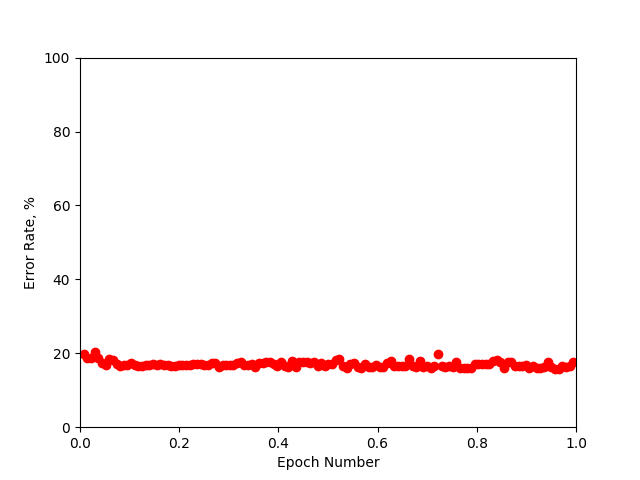
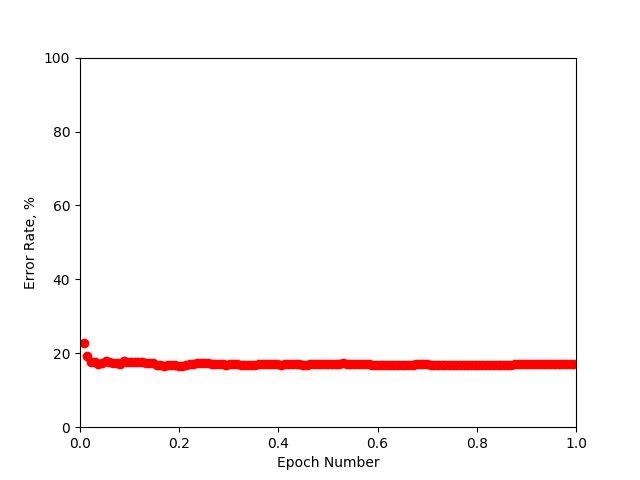
Fixed plots to show axis labels.
Fixed the plots to show the axis labels.

Changed region(s): [[0.125, 0.6875, 0.9062, 0.7812]]

diff --git a/Binary Feature Algorithms/avgSmartPerceptron.py b/Binary Feature Algorithms/avgSmartPerceptron.py
@@ -7,7 +7,7 @@ from Dev_Evaluator import DevEvaluator
 ## Averaged Smart Perceptron algorithm for binary classification
 ## of individuals earning less than or more than 50K/year.
 
-trainDataArray, devDataArray, featureArray = BinarizeData(sort=0, shuffle=0)
+trainDataArray, devDataArray, featureArray = BinarizeData(sort=0, shuffle=1)
 
 weightVector = np.zeros((len(featureArray)))
 weightVectorAveraged = np.zeros((len(featureArray)))
